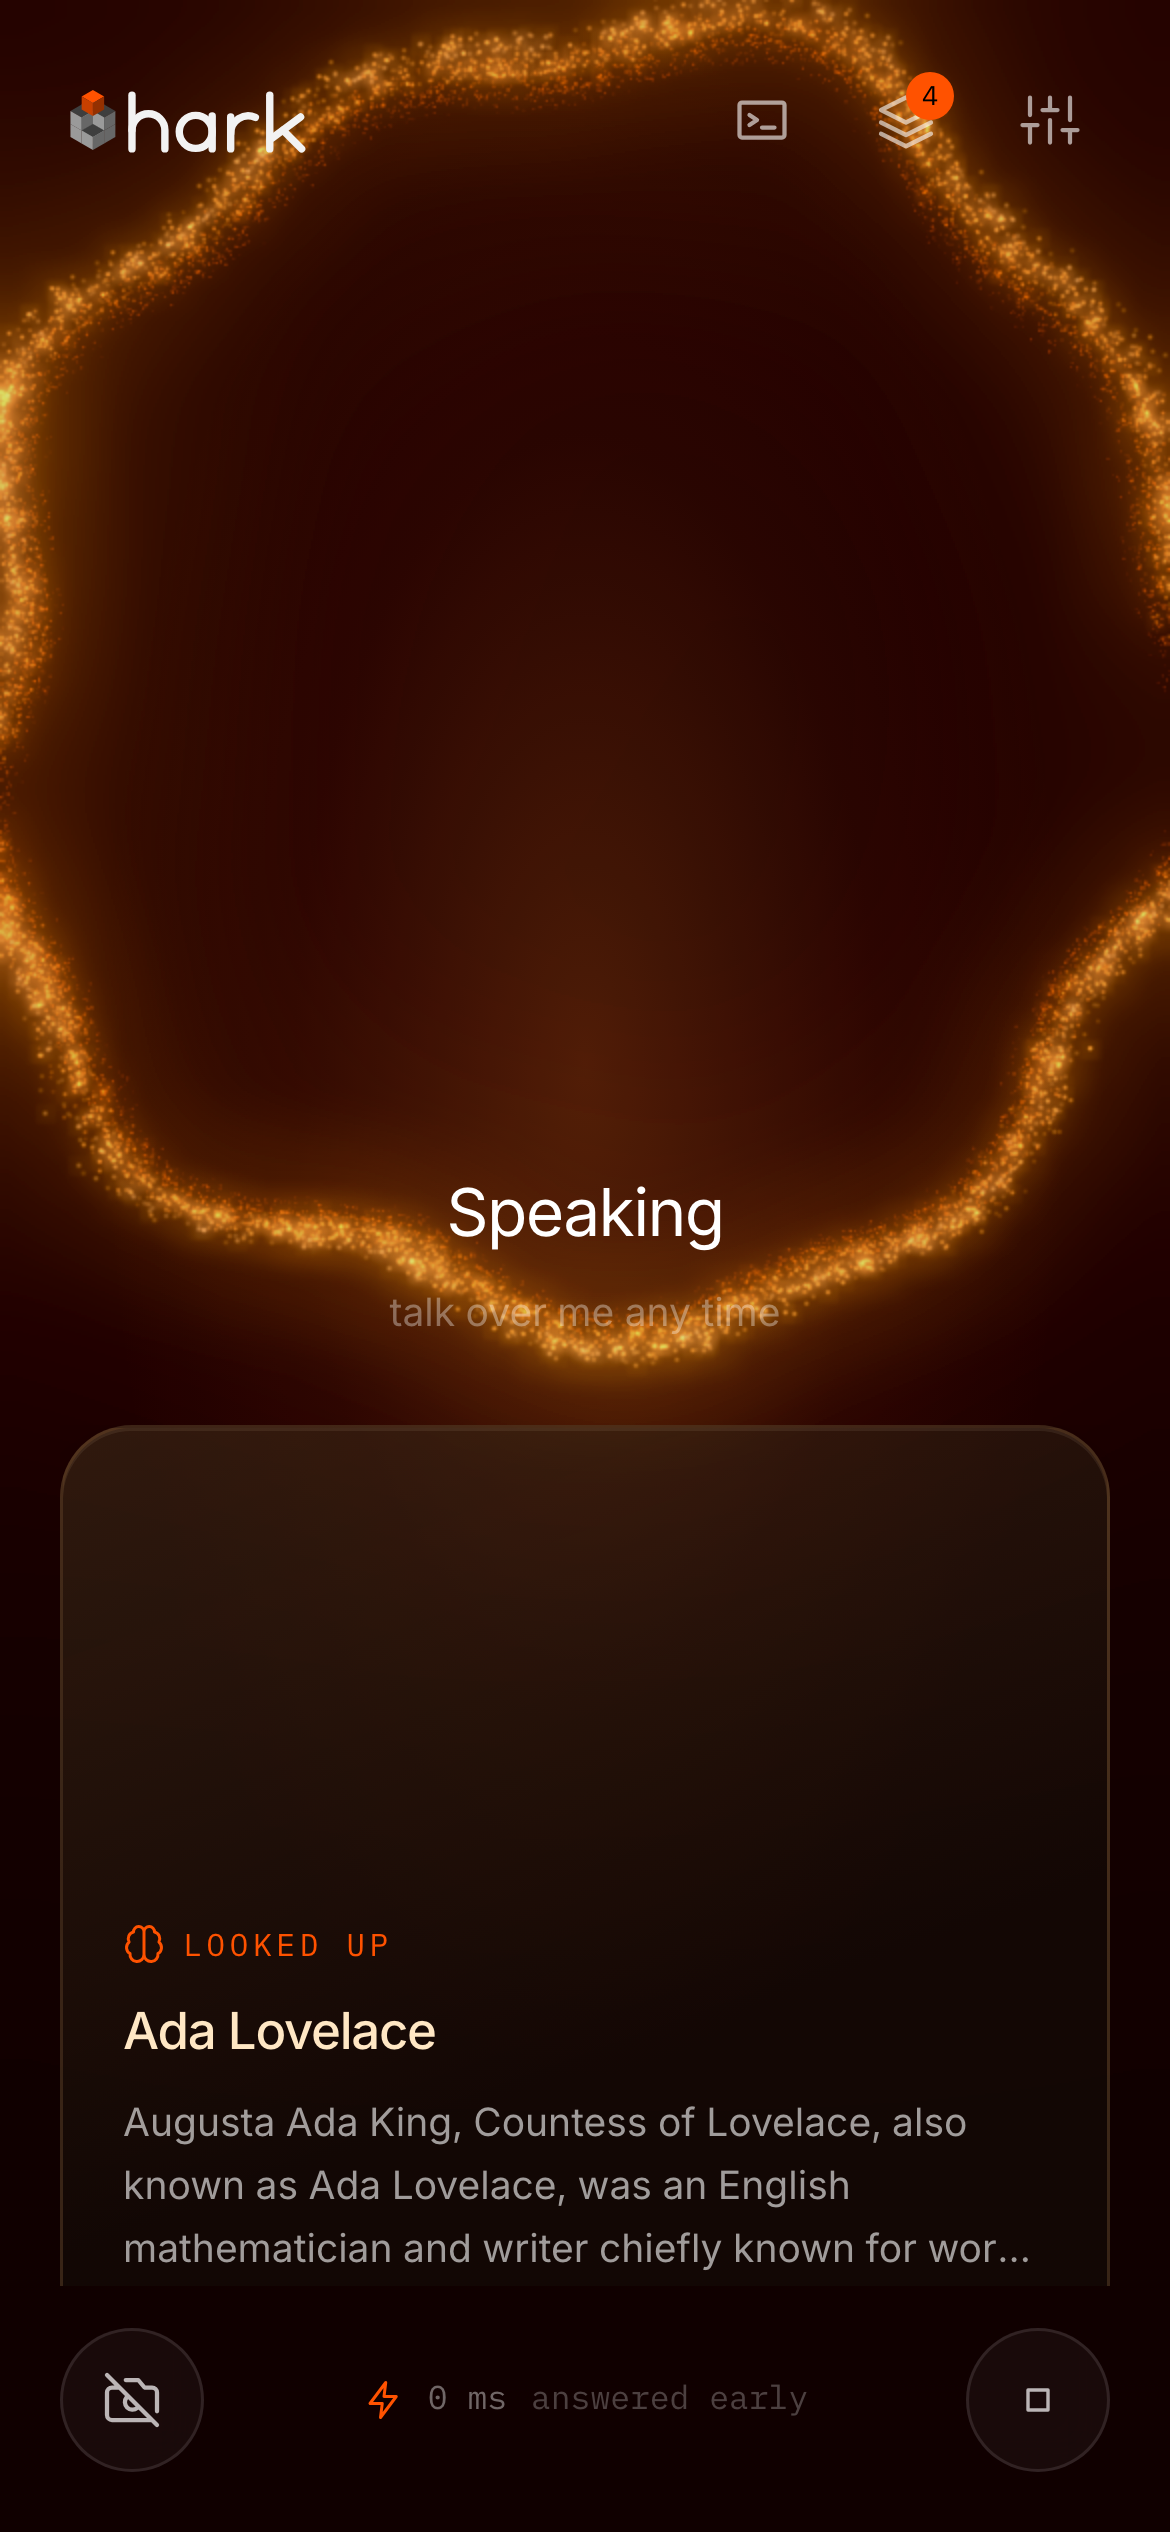
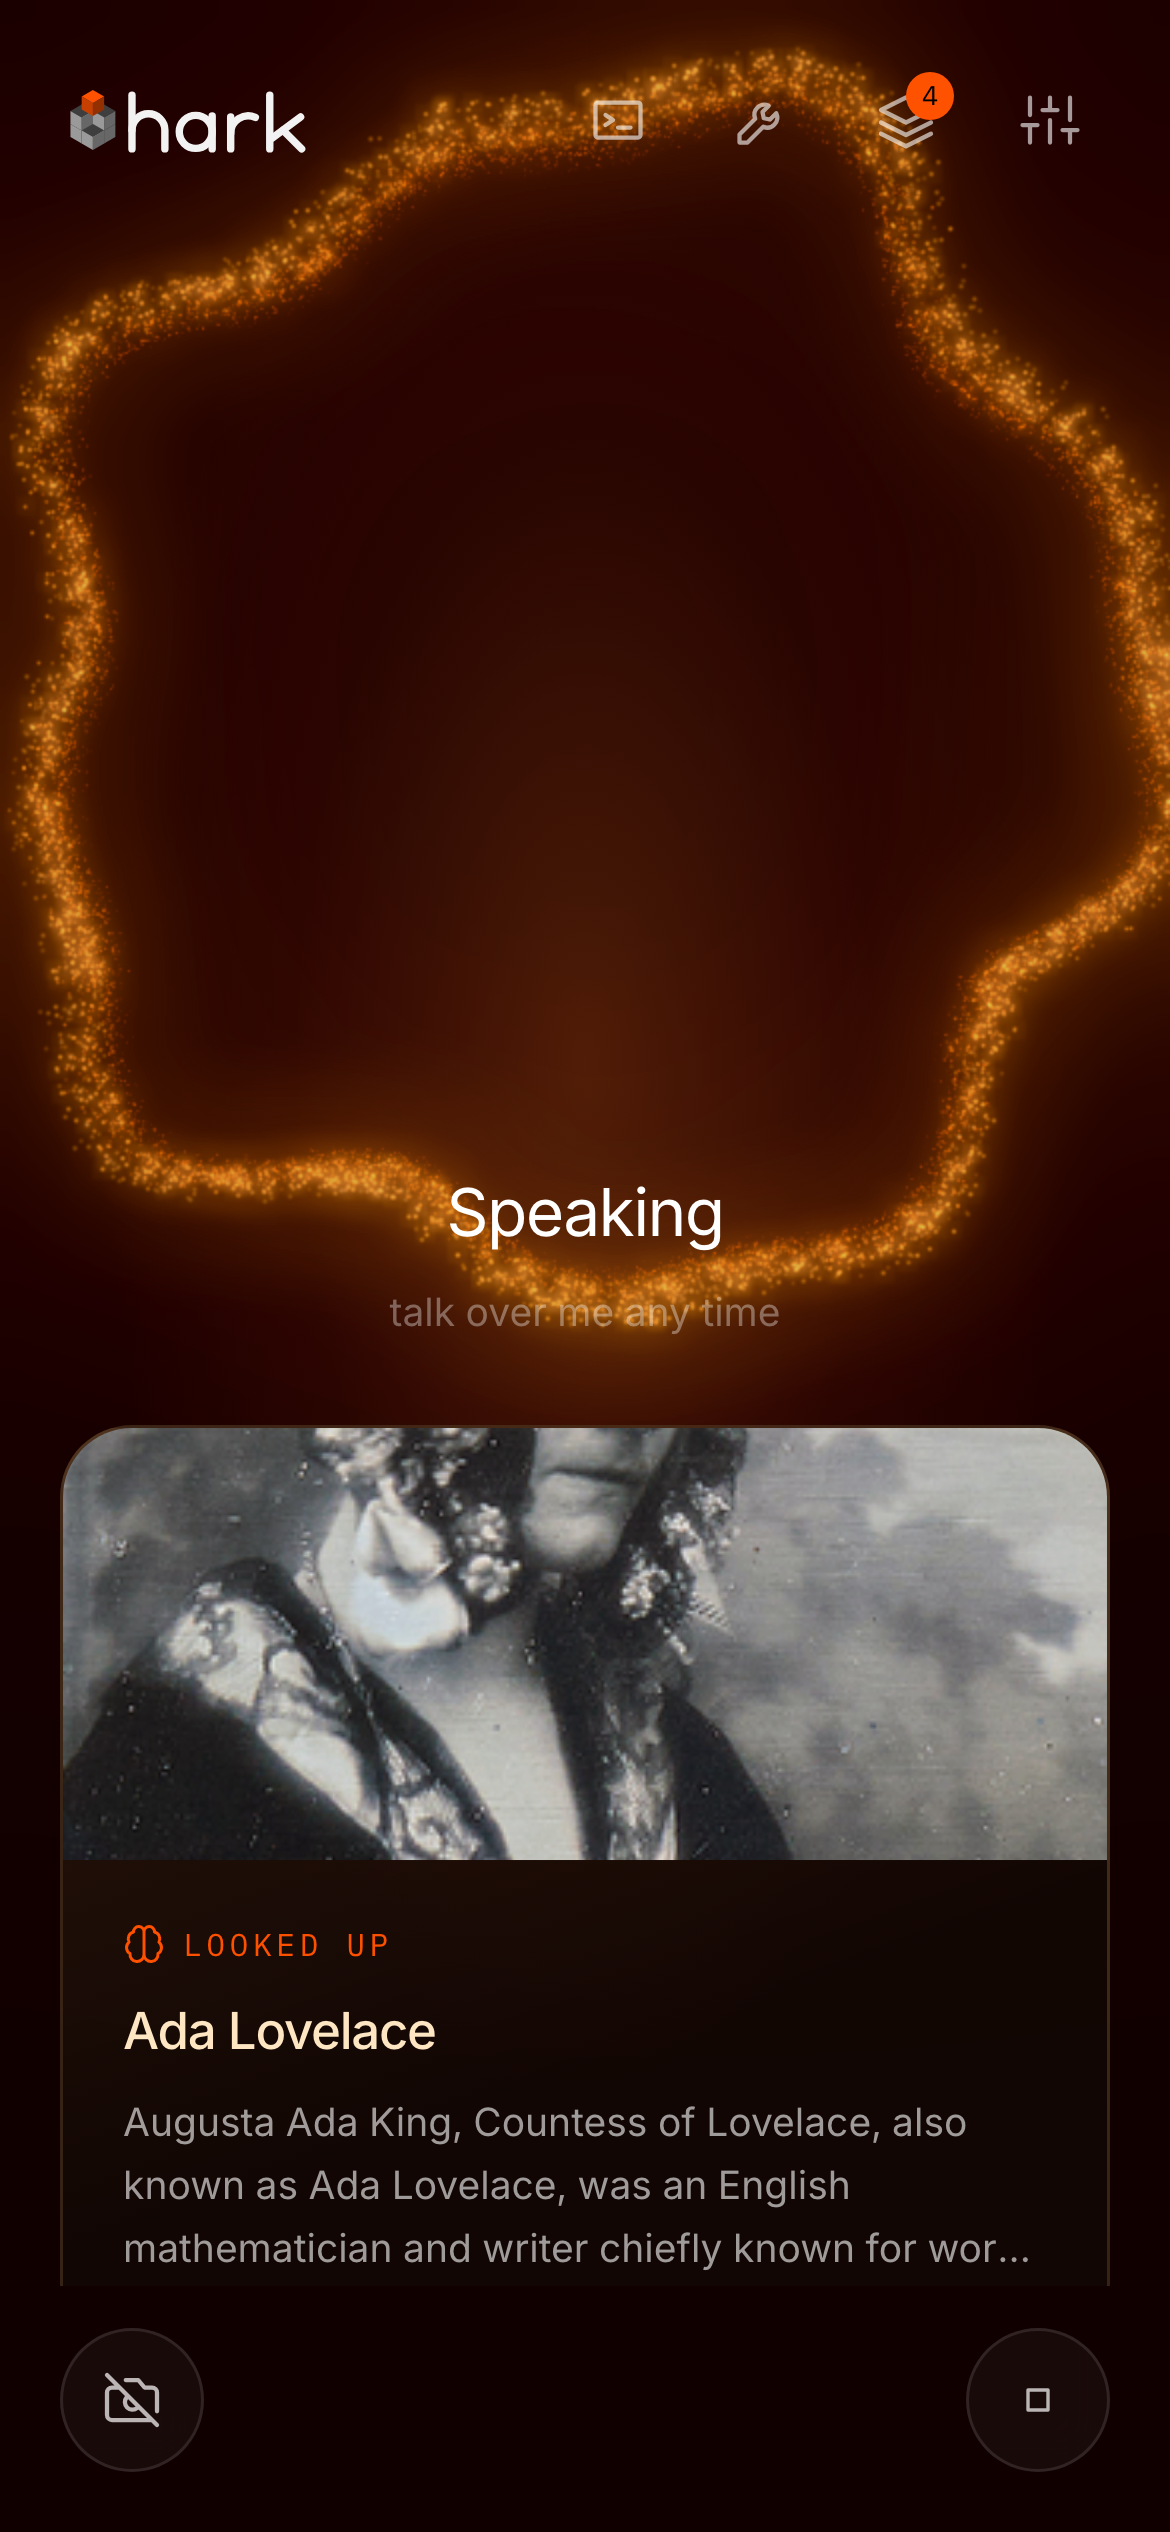
v6 L5: what hark can do. A tools button opens the full tool list in one tap (21 built-in tools, MCP servers and their tool count first); a capabilities tool answers 'what can you do', 'what can't you do' and limits from the real catalog and opens the same list. e2e 26/26. Live: 6/6 capability asks o

Changed region(s): [[0.0, 0.0, 1.0, 0.7488], [0.4, 0.936, 0.4308, 0.9672], [0.3077, 0.936, 0.3385, 0.9672]]

diff --git a/scripts/v6/l5-capabilities.ts b/scripts/v6/l5-capabilities.ts
@@ -1,0 +1,82 @@
+import { DEFAULT_BRAIN } from '../../shared/protocol';
+import { TOOL_CATALOG } from '../../shared/tool-catalog';
+import type { ChatMessage } from '../../src/chat';
+import { systemPrompt } from '../../src/prompt';
+import { reply, type ReplyPorts, type ReplyResult } from '../../src/reply';
+import { shapeToolCall } from '../../src/tool-call-shape';
+import { capabilityReport, TOOLS, toolSchemas } from '../../src/tools';
+
+const REPORT = capabilityReport([{ name: 'docs', state: 'ready' }], [{ server: 'docs', name: 'search_docs' }]);
+
+const YES = new RegExp('yes|can|files|computer', 'iu');
+const FORTY = new RegExp('40|forty', 'iu');
+const LIMIT = new RegExp("can(?:no|')t|not|never|only", 'iu');
+const DOCS = new RegExp('docs', 'iu');
+
+const CASES: readonly { prompt: string; ok: (said: string, called: boolean) => boolean }[] = [
+  { prompt: 'what can you do?', ok: (said, called) => called && mentions(said) >= 3 },
+  { prompt: 'what tools do you have', ok: (said, called) => called && mentions(said) >= 3 },
+  { prompt: 'how big a 3d model can you build?', ok: (said) => FORTY.test(said) },
+  { prompt: 'can you edit files on my computer?', ok: (said) => YES.test(said) },
+  { prompt: 'what are you not able to do?', ok: (said, called) => called && LIMIT.test(said) },
+  { prompt: 'which mcp servers do I have connected', ok: (said) => DOCS.test(said) },
+];
+
+const WORDS = [...TOOL_CATALOG.flatMap((tool) => [tool.title, tool.name.replaceAll('_', ' ')]), 'shape', 'swarm', 'paint', 'picture', 'timer', 'remember', 'search', 'web', 'terminal', 'files', 'cloudflare', 'camera', '3d', 'panels', 'voice'];
+
+const mentions = (said: string) => new Set(WORDS.filter((word) => said.toLowerCase().includes((word.toLowerCase().split(' ')[0] ?? word)))).size;
+
+const account = process.env.HARK_ACCOUNT_ID ?? '';
+const token = process.env.CLOUDFLARE_API_TOKEN ?? '';
+const brain = process.env.HARK_BRAIN ?? DEFAULT_BRAIN;
+
+const chat: ReplyPorts['chat'] = async (messages, signal) => {
+  const response = await fetch(`https://api.cloudflare.com/client/v4/accounts/${account}/ai/v1/chat/completions`, {
+    method: 'POST',
+    headers: { authorization: `Bearer ${token}`, 'content-type': 'application/json' },
+    body: JSON.stringify({ model: brain, messages, tools: toolSchemas(), stream: true, max_tokens: 2000, temperature: 0, chat_template_kwargs: { enable_thinking: false } }),
+    signal,
+  });
+  if (!response.ok || response.body === null) throw new Error(`chat ${response.status}`);
+  return response.body;
+};
+
+const turn = async (prompt: string, ok: (said: string, called: boolean) => boolean) => {
+  let called = false;
+  const ports: ReplyPorts = {
+    chat,
+    label: (call) => call.name,
+    tool: async (call) => {
+      const shaped = shapeToolCall(call.name, {}, TOOLS.map((tool) => tool.name));
+      if (shaped.name === 'capabilities') {
+        called = true;
+        return { content: REPORT };
+      }
+      if (shaped.name === 'mcp') return { content: 'docs (ready): search_docs' };
+      return { content: `${call.name} done` };
+    },
+    doing: () => undefined,
+    show: () => undefined,
+    fail: () => undefined,
+  };
+  const history: ChatMessage[] = [
+    { role: 'system', content: systemPrompt({ now: new Date(), timeZone: 'America/New_York', locale: 'en-US', memories: [], camera: false, firstTurn: false }) },
+    { role: 'user', content: prompt },
+  ];
+  const result: ReplyResult = { sleep: false, tools: [], firstTextAt: null, error: null };
+  let said = '';
+  for await (const piece of reply(ports, history, AbortSignal.timeout(60_000), result)) said += piece;
+  return { prompt, ok: ok(said, called), called, tools: result.tools, said: said.slice(0, 220) };
+};
+
+const outcomes = [];
+for (const each of CASES) {
+  const outcome = await turn(each.prompt, each.ok).catch((cause: unknown) => ({ prompt: each.prompt, ok: false, called: false, tools: [], said: String(cause).slice(0, 80) }));
+  outcomes.push(outcome);
+  console.log(`${outcome.ok ? 'pass' : 'FAIL'} ${outcome.prompt} -> [${outcome.tools.join(',')}] ${outcome.said.replaceAll('\n', ' ').slice(0, 160)}`);
+}
+const passed = outcomes.filter((outcome) => outcome.ok).length;
+const summary = { lane: 'L5', brain, passed, total: outcomes.length, pass: passed >= outcomes.length - 1 };
+console.log(JSON.stringify(summary));
+if (process.env.OUT !== undefined) await Bun.write(process.env.OUT, JSON.stringify({ ...summary, outcomes }, null, 2));
+process.exit(summary.pass ? 0 : 1);

diff --git a/src/tools.ts b/src/tools.ts
@@ -2,6 +2,7 @@ import { shapeToolCall } from './tool-call-shape';
 import { modelProblem } from '../shared/model-parts';
 import { isEmptyWidget, widgetOf } from '../shared/widget-parse';
 import type { PanelChange } from './panels';
+import { TOOL_CATALOG, TOOL_GROUPS } from '../shared/tool-catalog';
 import { PANEL_SIZES, WIDGET_KINDS, WIDGET_TONES, type Beat, FAST_VOICES, FORM_ICONS, FORM_KINDS, FORM_MOTIONS, FORM_SOLIDS, RICH_VOICES, VOICES, type FormKind, type FormMotion, type Visual, type Voice } from '../shared/protocol';
 
 export type ToolOutcome = {
@@ -30,6 +31,7 @@ export type ToolHost = {
   readonly screenshot: (url: string) => Promise<{ readonly image: string; readonly title: string; readonly text: string }>;
   readonly setIdle: (beats: readonly Beat[]) => void;
   readonly openWorkspace: (path: string | null) => void;
+  readonly showTools: () => void;
   readonly panels: { readonly list: () => string; readonly change: (change: PanelChange) => string };
   readonly setVoice: (voice: Voice) => void;
   readonly fetch: typeof fetch;
@@ -667,6 +669,35 @@ const showWidget: Definition = {
   },
 };
 
+const LIMITS = [
+  `Shapes: up to ${MAX_BEATS} beats per show, each 1 to 12 seconds; hold keeps one on screen as long as they like.`,
+  '3D models: up to 40 parts (spheres, boxes, cylinders, cones, tori, capsules).',
+  'Panels: 4 open at once, 40 kept in the drawer; small, medium or large.',
+  'Terminal: one command at a time, 120 seconds each, on their own durable Linux computer.',
+  'Cloudflare: reads at once; changes only after they say yes.',
+  'Memory: facts they ask to keep; the last 24 messages as text; never audio or camera frames.',
+  'It cannot see the screen unless the camera is on, and it cannot browse logged-in sites.',
+];
+
+export const capabilityReport = (servers: readonly { readonly name: string; readonly state: string }[], tools: readonly { readonly server: string; readonly name: string }[]) =>
+  [
+    ...TOOL_GROUPS.map((group) => `${group}: ${TOOL_CATALOG.filter((tool) => tool.group === group).map((tool) => `${tool.title} (${tool.name}, say "${tool.say}")`).join('; ')}`),
+    servers.length === 0 ? 'MCP servers: none connected. They can add one by URL in Settings, Tools.' : `MCP servers: ${servers.map((server) => `${server.name} (${server.state}): ${tools.filter((tool) => tool.server === server.name).map((tool) => tool.name).join(', ') || 'no tools yet'}`).join('; ')}`,
+    'Limits:',
+    ...LIMITS,
+  ].join('\n');
+
+const capabilities: Definition = {
+  name: 'capabilities',
+  label: () => 'Checking what I can do',
+  description: 'Use this whenever they ask what you can do, what your tools are, what you cannot do, or how big or long something can be. It returns the real list and limits and opens the tool list on their screen. Answer from it in two or three spoken sentences, naming a few tools by what they do, then offer the tool list on screen.',
+  parameters: object({}, []),
+  run: async (_args, host) => {
+    host.showTools();
+    return { content: capabilityReport(host.mcp.servers(), host.mcp.tools()) };
+  },
+};
+
 const PANEL_VERBS = ['list', 'open', 'close', 'delete', 'pin', 'unpin', 'resize', 'close_all', 'delete_all'] as const;
 
 const panelsTool: Definition = {
@@ -703,6 +734,7 @@ const panelsTool: Definition = {
 };
 
 export const TOOLS: readonly Definition[] = [
+  capabilities,
   panelsTool,
   lookUp,
   setTimer,

diff --git a/client/src/view/command.ts b/client/src/view/command.ts
@@ -249,7 +249,12 @@ const toolsTab = (h: H, model: Model): readonly Html[] => {
   const servers = model.servers.filter((server) => matches(model.query, server.name, server.host));
   const groups = TOOL_GROUPS.map((group) => ({ group, tools: TOOL_CATALOG.filter((tool) => tool.group === group && matches(model.query, tool.title, tool.say, tool.name, group)) })).filter((entry) => entry.tools.length > 0);
 
+  const builtIn = groups.map(({ group, tools }) => section(h, group, [h.div([h.Class('divide-y divide-white/[0.06] rounded-xl border border-white/[0.07] px-3.5')], tools.map((tool) => toolRow(h, tool)))]));
+  const mcpTools = model.servers.reduce((total, server) => total + server.tools, 0);
+
   return [
+    h.p([h.Id('tool-count'), h.Class('mb-5 font-mono text-[11px] tracking-[0.1em] text-white/45 uppercase')], [`${TOOL_CATALOG.length} built-in tools · ${model.servers.length} MCP servers · ${mcpTools} MCP tools. Or ask "what can you do?"`]),
+    ...builtIn,
     section(h, 'Your computer', [
       h.button(
         [h.Type('button'), h.Id('settings-open-workspace'), h.Class('flex w-full items-center gap-3 rounded-xl border border-white/[0.07] bg-white/[0.02] px-3.5 py-3 text-left hover:border-ember/40'), h.OnClick(Message.ClickedWorkspace())],
@@ -262,7 +267,6 @@ const toolsTab = (h: H, model: Model): readonly Html[] => {
         : h.div([h.Class('divide-y divide-white/[0.06] rounded-xl border border-white/[0.07] px-3.5')], servers.map((server) => serverRow(h, server))),
       addServer(h, model),
     ]),
-    ...groups.map(({ group, tools }) => section(h, group, [h.div([h.Class('divide-y divide-white/[0.06] rounded-xl border border-white/[0.07] px-3.5')], tools.map((tool) => toolRow(h, tool)))])),
   ];
 };
 

diff --git a/client/src/update.ts b/client/src/update.ts
@@ -113,6 +113,7 @@ const onFrame = (model: Model, frame: ServerFrame): Return =>
       }),
       Sleep: ({ reason }): Return => ({ model: sleep(model, Option.some(reason)) }),
       Idle: ({ beats }): Return => ({ model: modifyFields(model, { idle: () => beats }) }),
+      ShowTools: (): Return => openSheet(modifyFields(model, { tab: () => 'tools', drawer: () => false })),
       Panels: ({ panels, drawer }): Return => ({ model: modifyFields(model, { panels: () => panels, drawer: (open) => drawer ?? open }) }),
       OpenWorkspace: ({ path }): Return => ({
         model: modifyFields(model, { workspace: (workspace) => ({ ...workspace, open: true, loading: true }), sheet: () => false }),
@@ -180,6 +181,7 @@ export const update = (model: Model, message: Message): Return =>
       return configure(model, { ...current, engine, voice });
     },
     ClickedSignOut: () => ({ model: sleep(model, Option.none()), commands: [SignOut()] }),
+    ClickedTools: () => (model.sheet && model.tab === 'tools' ? { model: modifyFields(model, { sheet: () => false }) } : openSheet(modifyFields(model, { tab: () => 'tools', drawer: () => false }))),
     ClickedDrawer: () => ({ model: modifyFields(model, { drawer: (open) => !open }) }),
     ClickedPanel: ({ id, action }) => ({
       model: modifyFields(model, { panels: (panels) => (action === 'delete' ? panels.filter((panel) => panel.id !== id) : panels.map((panel) => (panel.id === id ? { ...panel, open: action === 'open' || action === 'pin' ? true : action === 'close' ? false : panel.open, pinned: action === 'pin' ? true : action === 'unpin' ? false : panel.pinned } : panel))) }),

diff --git a/client/src/view/index.ts b/client/src/view/index.ts
@@ -60,6 +60,10 @@ const header = (h: H, model: Model): Html =>
             [icon(h, 'terminal')],
           ),
           h.button(
+            [h.Type('button'), h.Id('tools'), h.AriaLabel('What hark can do'), h.Title('What hark can do'), h.Class('grid size-10 place-items-center rounded-full text-white/60 transition hover:bg-white/[0.06] hover:text-white'), h.OnClick(Message.ClickedTools())],
+            [icon(h, 'tools')],
+          ),
+          h.button(
             [h.Type('button'), h.Id('panels'), h.AriaLabel(`Panels (${model.panels.length})`), h.AriaExpanded(model.drawer), h.Class('relative grid size-10 place-items-center rounded-full text-white/60 transition hover:bg-white/[0.06] hover:text-white'), h.OnClick(Message.ClickedDrawer())],
             [icon(h, 'stack'), ...(model.panels.length === 0 ? [] : [h.span([h.Class('absolute top-1 right-1 grid min-w-4 place-items-center rounded-full bg-ember px-1 font-mono text-[9px] leading-4 text-black')], [String(model.panels.length)])])],
           ),

diff --git a/src/prompt.ts b/src/prompt.ts
@@ -47,6 +47,7 @@ export const systemPrompt = ({
     '- Tell little stories with several beats. Spin real 3D solids. Paint a picture for the big moments.',
     '- Never say you cannot show something. Never narrate what you are drawing.',
     '',
+    'When they ask what you can do, what tools you have, what you cannot do, or any limit, call capabilities first and answer only from what it returns. Never list tools or limits from memory.',
     'What you can do with tools: look things up, timers and reminders, remember and forget facts about them, look through their camera, paint a picture onto their screen, shape the glowing swarm on their screen into an emoji, a short word, or an icon with show_form, change your own voice, and go to sleep when they are done.',
     camera
       ? 'Their camera is on. If they refer to something they are holding or showing, use the look tool.'

diff --git a/shared/tool-catalog.ts b/shared/tool-catalog.ts
@@ -22,6 +22,7 @@ export const TOOL_CATALOG: readonly CatalogTool[] = [
   { name: 'cancel_timer', title: 'Cancel a timer', group: 'Time', say: 'Cancel the tea timer.' },
   { name: 'change_voice', title: 'Change voice', group: 'Voice', say: 'Switch to a deeper voice.' },
   { name: 'rest', title: 'Sleep', group: 'Voice', say: 'That is all, thanks.' },
+  { name: 'capabilities', title: 'What I can do', group: 'Voice', say: 'What can you do?' },
   { name: 'mcp', title: 'Your MCP servers', group: 'Find', say: 'What can my docs server do?' },
 ];
 

diff --git a/shared/protocol.ts b/shared/protocol.ts
@@ -223,6 +223,7 @@ export const ServerFrame = Schema.Union([
   Schema.TaggedStruct('ServerNote', { note: Schema.String, authUrl: Schema.NullOr(Schema.String) }),
   Schema.TaggedStruct('Idle', { beats: Schema.Array(Beat) }),
   Schema.TaggedStruct('OpenWorkspace', { path: Schema.NullOr(Schema.String) }),
+  Schema.TaggedStruct('ShowTools', {}),
   Schema.TaggedStruct('Panels', { panels: Schema.Array(Panel), drawer: Schema.optional(Schema.Boolean) }),
 ]);
 

diff --git a/src/hark.ts b/src/hark.ts
@@ -877,6 +877,7 @@ export class Hark extends VoiceAgent<Env> {
         return { image: '', title: pageTitle(page.stdout, url), text: pageText(page.stdout, 6000) };
       },
       openWorkspace: (path) => this.send(connection, { _tag: 'OpenWorkspace', path }),
+      showTools: () => this.send(connection, { _tag: 'ShowTools' }),
       panels: {
         list: () => {
           this.savePanels(connection, this.panels(), true);

diff --git a/client/src/message.ts b/client/src/message.ts
@@ -32,6 +32,7 @@ export const Message = defineMessageUnion({
   ClickedSignOut: {},
   DismissedVisual: { id: Schema.String },
   ClickedDrawer: {},
+  ClickedTools: {},
   ClickedPanel: { id: Schema.String, action: PanelAction },
   DismissedFault: {},
   StartedEngine: {},
